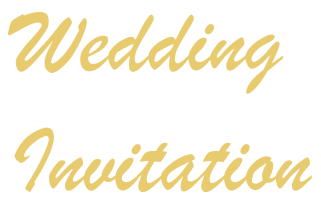
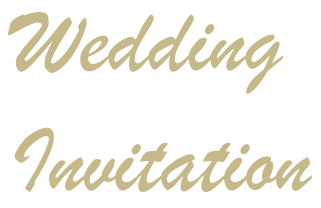
fix colors

Changed region(s): [[0.0, 0.0577, 0.9034, 0.4615], [0.0312, 0.6058, 0.9657, 0.9231]]

diff --git a/css/styles.min.css b/css/styles.min.css
@@ -1,1 +1,1 @@
-@import"https://fonts.googleapis.com/css?family=Open+Sans:300italic,400italic,600italic,700italic,800italic,400,300,600,700,800";@import"https://fonts.googleapis.com/css?family=Merriweather:400,300,400italic,300italic,700,700italic";@import"https://fonts.googleapis.com/css?family=Nunito:400,300,700";p{font-size:15px;line-height:29px;color:rgba(28,54,83,.6);padding-bottom:20px}h1{font-size:60px}h2{font-size:40px;font-weight:300;color:#3d4351}h3{color:#3d4351;font-size:18px;font-weight:700;text-transform:uppercase;letter-spacing:3px;line-height:29px}h4{font-size:18px}h5{font-size:15px;color:#3d4351;text-transform:uppercase;font-weight:500}.btn{font-size:13px;border:solid 2px;-moz-border-radius:40px;-webkit-border-radius:40px;border-radius:40px;display:inline-block;text-transform:uppercase}.btn:hover,.btn:focus{color:#fff;border-color:#e8ca6f;background-color:#e8ca6f}.btn-white{font-size:13px;border:solid 2px;-moz-border-radius:40px;-webkit-border-radius:40px;border-radius:40px;display:inline-block;border-color:#fff}.btn-white:hover,.btn-white:focus{color:#e8ca6f;border-color:#e8ca6f}.btn-fill{color:#fff;border:solid 2px #e8ca6f;-moz-border-radius:40px;-webkit-border-radius:40px;border-radius:40px;display:inline-block;text-transform:uppercase;background-color:#e8ca6f}.btn-fill:hover,.btn-fill:focus{color:#fff;background-color:#d3b56a;border-color:#d3b56a}.btn-small{padding:8px 30px}.btn-large{padding:15px 40px}.btn-margin-right{margin-right:20px}section.intro,section.features-extra,section.rsvp{background:#fff}section.features,section.events,section.blog{background:#f8f9fd}.group:after{content:"";display:table;clear:both}.no-padding{padding:0}.no-margin{margin:0}a{color:#e8ca6f;-webkit-transition-timing-function:ease;transition-timing-function:ease;-webkit-transition-duration:200ms;transition-duration:200ms;-webkit-transition-property:color,border-color,background-color;transition-property:color,border-color,background-color}a:hover,a:focus{color:#d3b56a;text-decoration:none}body{font-family:"Open Sans",sans-serif;font-weight:300;color:rgba(28,54,83,.6);-webkit-text-size-adjust:100%}*:focus{outline:none !important}ul,ol{margin:0;padding:0}ul li{list-style:none}section .header{padding-bottom:30px}.section-padding{padding:40px 0}.section-border{border-bottom:1px solid #e6e9ea}.tooltip{position:absolute;z-index:1070;display:block;font-family:"Helvetica Neue",Helvetica,Arial,sans-serif;font-size:12px;font-weight:normal;line-height:1.4;visibility:visible;filter:alpha(opacity=0);opacity:0}.tooltip.in{filter:alpha(opacity=90);opacity:.9}.tooltip.top{padding:5px 0;margin-top:-3px}.tooltip.right{padding:0 5px;margin-left:3px}.tooltip.bottom{padding:5px 0;margin-top:3px}.tooltip.left{padding:0 5px;margin-left:-3px}.tooltip-inner{max-width:200px;padding:3px 8px;color:#fff;text-align:center;text-decoration:none;text-transform:capitalize;background-color:#000;border-radius:4px}.pulse2{animation-name:pulse2;animation-duration:1s;animation-iteration-count:infinite;animation-timing-function:linear}@keyframes pulse2{0%{transform:scale(1.1)}50%{transform:scale(0.8)}100%{transform:scale(1)}}.floating-arrow{animation-name:floating-arrow;animation-duration:2s;animation-iteration-count:infinite;animation-timing-function:ease-in-out}@keyframes floating-arrow{from{transform:translate(-50%, 0)}65%{transform:translate(-50%, 15px)}to{transform:translate(-50%, 0)}}.floating-logo{animation-name:floating-logo;animation-duration:2s;animation-iteration-count:infinite;animation-timing-function:ease-in-out}@keyframes floating-logo{from{transform:translate(-50%, 0)}50%{transform:translate(-50%, 10px)}to{transform:translate(-50%, 0)}}.wp1,.wp2,.wp3,.wp4,.wp5,.wp6,.wp7,.wp8,.wp9{visibility:hidden}.wp8,.wp9{-webkit-animation-delay:.3s;animation-delay:.3s}.bounceInLeft,.bounceInRight,.fadeInUp,.fadeInUpDelay,.fadeInDown,.fadeInUpD,.fadeInLeft,.fadeInRight,.bounceInDown{visibility:visible}.header-nav.open{visibility:visible;opacity:.9;-webkit-transition:opacity .5s;transition:opacity .5s}.nav-toggle{position:absolute;top:0;right:15px;z-index:999999;padding:10px 35px 16px 0;cursor:pointer}.nav-toggle:focus{outline:none}.nav-toggle span,.nav-toggle span:before,.nav-toggle span:after{content:"";position:absolute;display:block;width:35px;height:3px;-moz-border-radius:1px;-webkit-border-radius:1px;border-radius:1px;background:#fff;cursor:pointer}.nav-toggle span:before{top:-10px}.nav-toggle span:after{bottom:-10px}.nav-toggle span,.nav-toggle span:before,.nav-toggle span:after{-moz-transition:all 300ms ease-in-out;-o-transition:all 300ms ease-in-out;-webkit-transition:all 300ms ease-in-out;transition:all 300ms ease-in-out}.nav-toggle.active span{background-color:rgba(0,0,0,0)}.nav-toggle.active span:before,.nav-toggle.active span:after{top:0}.nav-toggle.active span:before{-moz-transform:rotate(45deg);-ms-transform:rotate(45deg);-o-transform:rotate(45deg);-webkit-transform:rotate(45deg);transform:rotate(45deg)}.nav-toggle.active span:after{top:10px;-moz-transform:translatey(-10px) rotate(-45deg);-ms-transform:translatey(-10px) rotate(-45deg);-o-transform:translatey(-10px) rotate(-45deg);-webkit-transform:translatey(-10px) rotate(-45deg);transform:translatey(-10px) rotate(-45deg)}.navicon{position:absolute;height:26px;right:10px;top:48px;visibility:hidden;transition:all 300ms ease-in-out}.hero{min-height:900px;background:url("../img/hero-min.jpg") center center;-webkit-background-size:cover;-moz-background-size:cover;-o-background-size:cover;background-size:cover;position:relative}.hero .hero-content{padding-top:100px}.hero-img{padding-top:300px}.navigation{transition:all 300ms ease-in-out;position:fixed;width:100%;z-index:999}.fixed{position:fixed;background-color:rgba(55,36,40,.88);z-index:999;width:100%}header{padding:50px 0;border-bottom:solid 1px rgba(255,255,255,.2);position:relative;width:1170px;margin:0 auto;transition:padding 300ms ease-in-out}header a{color:#fff;text-transform:uppercase;font-size:13px}header a.login{margin-right:20px}header .logo{display:inline-block}header .logo img{height:19px}header ul.primary-nav{margin:0 0 0 75px;padding:0}header ul.primary-nav li{display:inline}header ul.primary-nav li a{color:#fff;padding-right:25px}header ul.primary-nav li a:hover{color:#e8ca6f}header ul.primary-nav li:last-child a{padding-right:0px}header ul.member-actions li{display:inline}header ul.member-actions li a{color:#fff}header ul.member-actions li a:hover{color:#e8ca6f}header .header-nav{display:inline-block}header .member-actions{position:absolute;right:0;top:41px;transition:all 300ms ease-in-out}.down-arrow{color:#fff;font-size:30px;position:absolute;bottom:30px;left:50%;transform:translateX(-50%)}.share-bar{margin-top:20px}.intro span.icon{font-size:40px;color:#e8ca6f;font-weight:bold}.intro-icon{display:inline-block;vertical-align:top;padding:6px 0 0 0;margin-right:20px;width:40px}.intro-content{display:inline-block;width:80%}#intro{padding-top:40px}#intro img{width:100%;height:auto}#intro p{text-align:center}.features{position:relative}.features p{margin-bottom:0;padding-bottom:0}.features h3{margin:0 0 20px 0}.features span.icon{font-size:35px;color:#e8ca6f;font-weight:bold}.features .feature-icon{display:inline-block;vertical-align:top;padding:6px 0 0 0;margin-right:20px;width:35px}.features .feature-content{display:inline-block;width:75%}.features .intro-icon{display:inline-block;vertical-align:top;padding:6px 0 0 0;margin-right:20px}.features .intro-content{display:inline-block;width:80%}.features ul.features-stack{margin-top:50px}.features ul.features-stack li{margin-top:20px;padding-bottom:20px;border-bottom:solid 1px #e6e9ea}.features ul.features-stack li:last-child{padding-bottom:0px;border-bottom:none}.features .ipad-wrap{width:706px;height:1002px;background:url("../img/ipad-device.png") no-repeat center center;z-index:1}.features .iphone-wrap{width:304px;height:620px;background:url("../img/iphone6.png") no-repeat center center;position:absolute;left:530px;bottom:129px;z-index:2}.features .device-showcase{position:absolute;bottom:-365px;right:61%}.features .responsive-feature-img,.features-extra .responsive-feature-img{display:none}.devices{position:relative}.features-extra{position:relative;z-index:3}.features-extra .btn{margin-top:20px}.features-extra .macbook-wrap{position:absolute;width:916px;height:540px;background:url("../img/macbook-pro.png") no-repeat center center;top:114px;z-index:4;left:50%}.events .leftcol{padding-right:100px;border-right:solid 1px #e6e9ea}.events .rightcol{padding-left:100px}.events .time{font-size:13px;font-style:italic;text-transform:lowercase;color:rgba(28,54,83,.6)}.blog{padding-bottom:120px}.blog img{width:100%;height:auto;-moz-transition:all 300ms ease-in-out;-o-transition:all 300ms ease-in-out;-webkit-transition:all 300ms ease-in-out;transition:all 300ms ease-in-out}.blog h2{font-size:11px;color:#acb1b4;font-weight:500;text-transform:uppercase;margin-top:35px}.blog .btn{margin-top:20px}.blog .blog-img-wrap{position:relative;overflow:hidden}.blog .blog-img-wrap .overlay{position:absolute;width:100%;height:100%;background-color:rgba(255,255,255,.5);-moz-transition:all 300ms ease-in-out;-o-transition:all 300ms ease-in-out;-webkit-transition:all 300ms ease-in-out;transition:all 300ms ease-in-out;-ms-filter:"progid:DXImageTransform.Microsoft.Alpha(Opacity=0)";filter:alpha(opacity=0);opacity:0}.blog .blog-img-wrap i{color:#fff;font-size:20px;position:absolute;width:20px;height:20px;top:25px;right:35px}.blog .blog-img-wrap:hover img,.blog .blog-img-wrap:focus img{-moz-transform:scale(1.1);-ms-transform:scale(1.1);-o-transform:scale(1.1);-webkit-transform:scale(1.1);transform:scale(1.1)}.blog .blog-img-wrap:hover .overlay,.blog .blog-img-wrap:focus .overlay{-ms-filter:"progid:DXImageTransform.Microsoft.Alpha(Opacity=1)";filter:alpha(opacity=1);opacity:1;z-index:9}.blog figcaption i{margin-left:5px;font-size:15px}.blog figcaption a.blog-post-title{color:rgba(28,54,83,.6)}.blog figcaption a.blog-post-title:hover,.blog figcaption a.blog-post-title:focus{color:#3d4351}#instagram img{width:100%}#eng-pics img{width:100%;height:auto;-moz-transition:all 300ms ease-in-out;-o-transition:all 300ms ease-in-out;-webkit-transition:all 300ms ease-in-out;transition:all 300ms ease-in-out}#eng-pics .img-wrap{position:relative;overflow:hidden;border-radius:4px}#eng-pics .img-wrap .overlay{position:absolute;width:100%;height:100%;background-color:rgba(255,255,255,.5);-moz-transition:all 300ms ease-in-out;-o-transition:all 300ms ease-in-out;-webkit-transition:all 300ms ease-in-out;transition:all 300ms ease-in-out;-ms-filter:"progid:DXImageTransform.Microsoft.Alpha(Opacity=0)";filter:alpha(opacity=0);opacity:0}#eng-pics .img-wrap i{color:#fff;font-size:15px;position:absolute;width:15px;height:15px;top:6px;right:6px}#eng-pics .img-wrap:hover img,#eng-pics .img-wrap:focus img{-moz-transform:scale(1.1);-ms-transform:scale(1.1);-o-transform:scale(1.1);-webkit-transform:scale(1.1);transform:scale(1.1)}#eng-pics .img-wrap:hover .overlay,#eng-pics .img-wrap:focus .overlay{-ms-filter:"progid:DXImageTransform.Microsoft.Alpha(Opacity=1)";filter:alpha(opacity=1);opacity:1;z-index:9}#eng-pics .diamond{width:230px;height:230px;position:absolute;bottom:-145px;left:50%;transform:translateX(-50%);z-index:500}#eng-pics .ring{width:75px;height:75px;border-radius:75px;border:10px solid #d0d3d4;position:absolute;left:34%;top:75%;z-index:-1}#video-bg{height:300px}#video-content{width:100%;height:100%;padding-top:100px;position:relative;background:rgba(17,17,17,.5);text-align:center}#video-content h5{color:#fff;font-size:30px;font-weight:300;letter-spacing:10px}#video-content p{color:#fff}.rsvp{padding-bottom:140px}.rsvp .rsvp-form .rsvp-btn{padding:15px 0;border-radius:3px;width:100%;font-size:13px}.rsvp .rsvp-form .form-input-group{width:100%;height:55px;margin:0 auto 10px;-moz-border-radius:5px;-webkit-border-radius:5px;border-radius:5px;border:solid 1px #e6e9ea;text-align:left;position:relative}.rsvp .rsvp-form .form-input-group i{color:#e8ca6f;font-size:14px}.rsvp .rsvp-form .form-input-group i:after{content:"";height:30px;width:1px;border-right:solid 1px #e6e9ea;position:absolute;top:50%;left:30px;transform:translateY(-50%)}.rsvp .rsvp-form .form-input-group i.fa-user,.rsvp .rsvp-form .form-input-group i.fa-users,.rsvp .rsvp-form .form-input-group i.fa-map-pin,.rsvp .rsvp-form .form-input-group .fa-shield{font-size:14px;position:absolute;top:50%;transform:translateY(-50%);margin-left:20px}.rsvp .rsvp-form .form-input-group input,.rsvp .rsvp-form .form-input-group select{color:rgba(28,54,83,.6);background-color:#fff;padding-left:68px;width:100%;height:100%;-moz-border-radius:6px;-webkit-border-radius:6px;border-radius:6px;border:none}.rsvp .rsvp-form .form-input-group input::-webkit-input-placeholder,.rsvp .rsvp-form .form-input-group select::-webkit-input-placeholder{color:#bcc1c3}.rsvp .rsvp-form .form-input-group input:-moz-placeholder,.rsvp .rsvp-form .form-input-group select:-moz-placeholder{color:#bcc1c3}.rsvp .rsvp-form .form-input-group input::-moz-placeholder,.rsvp .rsvp-form .form-input-group select::-moz-placeholder{color:#bcc1c3}.rsvp .rsvp-form .form-input-group input:-ms-input-placeholder,.rsvp .rsvp-form .form-input-group select:-ms-input-placeholder{color:#bcc1c3}.radiobutton{display:none}label{width:45%;background-color:#fff;padding:10px 20px}.radiobutton:checked+label{color:#fff;background-color:#e8ca6f}footer .content{border-top:1px solid #e6e9ea;padding-bottom:20px}footer .to-top-wrapper{font-size:30px;display:block;cursor:pointer;margin:-25px auto 50px;border-radius:50%;width:50px;height:50px;border:1px solid #e6e9ea;background:#fff}footer .to-top-wrapper .to-top{display:block;-webkit-transition:all .3s ease-in-out;-moz-transition:all .3s ease-in-out;-ms-transition:all .3s ease-in-out;-o-transition:all .3s ease-in-out;transition:all .3s ease-in-out}footer .to-top-wrapper .to-top:hover{margin-top:-5px}footer span.fa-heart{color:#ff415c;font-size:18px;margin:0 2px}body.modal-open{padding-right:0 !important}.modal-body{padding:25px}
+@import"https://fonts.googleapis.com/css?family=Open+Sans:300italic,400italic,600italic,700italic,800italic,400,300,600,700,800";@import"https://fonts.googleapis.com/css?family=Merriweather:400,300,400italic,300italic,700,700italic";@import"https://fonts.googleapis.com/css?family=Nunito:400,300,700";p{font-size:15px;line-height:29px;color:rgba(28,54,83,.6);padding-bottom:20px}h1{font-size:60px}h2{font-size:40px;font-weight:300;color:#3d4351}h3{color:#3d4351;font-size:18px;font-weight:700;text-transform:uppercase;letter-spacing:3px;line-height:29px}h4{font-size:18px}h5{font-size:15px;color:#3d4351;text-transform:uppercase;font-weight:500}.btn{font-size:13px;border:solid 2px;-moz-border-radius:40px;-webkit-border-radius:40px;border-radius:40px;display:inline-block;text-transform:uppercase}.btn:hover,.btn:focus{color:#fff;border-color:#c5b98a;background-color:#c5b98a}.btn-white{font-size:13px;border:solid 2px;-moz-border-radius:40px;-webkit-border-radius:40px;border-radius:40px;display:inline-block;border-color:#fff}.btn-white:hover,.btn-white:focus{color:#c5b98a;border-color:#c5b98a}.btn-fill{color:#fff;border:solid 2px #c5b98a;-moz-border-radius:40px;-webkit-border-radius:40px;border-radius:40px;display:inline-block;text-transform:uppercase;background-color:#c5b98a}.btn-fill:hover,.btn-fill:focus{color:#fff;background-color:#d3b56a;border-color:#d3b56a}.btn-small{padding:8px 30px}.btn-large{padding:15px 40px}.btn-margin-right{margin-right:20px}section.intro,section.features-extra,section.rsvp{background:#fff}section.features,section.events,section.blog{background:#f8f9fd}.group:after{content:"";display:table;clear:both}.no-padding{padding:0}.no-margin{margin:0}a{color:#c5b98a;-webkit-transition-timing-function:ease;transition-timing-function:ease;-webkit-transition-duration:200ms;transition-duration:200ms;-webkit-transition-property:color,border-color,background-color;transition-property:color,border-color,background-color}a:hover,a:focus{color:#d3b56a;text-decoration:none}body{font-family:"Open Sans",sans-serif;font-weight:300;color:rgba(28,54,83,.6);-webkit-text-size-adjust:100%}*:focus{outline:none !important}ul,ol{margin:0;padding:0}ul li{list-style:none}section .header{padding-bottom:30px}.section-padding{padding:40px 0}.section-border{border-bottom:1px solid #e6e9ea}.tooltip{position:absolute;z-index:1070;display:block;font-family:"Helvetica Neue",Helvetica,Arial,sans-serif;font-size:12px;font-weight:normal;line-height:1.4;visibility:visible;filter:alpha(opacity=0);opacity:0}.tooltip.in{filter:alpha(opacity=90);opacity:.9}.tooltip.top{padding:5px 0;margin-top:-3px}.tooltip.right{padding:0 5px;margin-left:3px}.tooltip.bottom{padding:5px 0;margin-top:3px}.tooltip.left{padding:0 5px;margin-left:-3px}.tooltip-inner{max-width:200px;padding:3px 8px;color:#fff;text-align:center;text-decoration:none;text-transform:capitalize;background-color:#000;border-radius:4px}.pulse2{animation-name:pulse2;animation-duration:1s;animation-iteration-count:infinite;animation-timing-function:linear}@keyframes pulse2{0%{transform:scale(1.1)}50%{transform:scale(0.8)}100%{transform:scale(1)}}.floating-arrow{animation-name:floating-arrow;animation-duration:2s;animation-iteration-count:infinite;animation-timing-function:ease-in-out}@keyframes floating-arrow{from{transform:translate(-50%, 0)}65%{transform:translate(-50%, 15px)}to{transform:translate(-50%, 0)}}.floating-logo{animation-name:floating-logo;animation-duration:2s;animation-iteration-count:infinite;animation-timing-function:ease-in-out}@keyframes floating-logo{from{transform:translate(-50%, 0)}50%{transform:translate(-50%, 10px)}to{transform:translate(-50%, 0)}}.wp1,.wp2,.wp3,.wp4,.wp5,.wp6,.wp7,.wp8,.wp9{visibility:hidden}.wp8,.wp9{-webkit-animation-delay:.3s;animation-delay:.3s}.bounceInLeft,.bounceInRight,.fadeInUp,.fadeInUpDelay,.fadeInDown,.fadeInUpD,.fadeInLeft,.fadeInRight,.bounceInDown{visibility:visible}.header-nav.open{visibility:visible;opacity:.9;-webkit-transition:opacity .5s;transition:opacity .5s}.nav-toggle{position:absolute;top:0;right:15px;z-index:999999;padding:10px 35px 16px 0;cursor:pointer}.nav-toggle:focus{outline:none}.nav-toggle span,.nav-toggle span:before,.nav-toggle span:after{content:"";position:absolute;display:block;width:35px;height:3px;-moz-border-radius:1px;-webkit-border-radius:1px;border-radius:1px;background:#fff;cursor:pointer}.nav-toggle span:before{top:-10px}.nav-toggle span:after{bottom:-10px}.nav-toggle span,.nav-toggle span:before,.nav-toggle span:after{-moz-transition:all 300ms ease-in-out;-o-transition:all 300ms ease-in-out;-webkit-transition:all 300ms ease-in-out;transition:all 300ms ease-in-out}.nav-toggle.active span{background-color:rgba(0,0,0,0)}.nav-toggle.active span:before,.nav-toggle.active span:after{top:0}.nav-toggle.active span:before{-moz-transform:rotate(45deg);-ms-transform:rotate(45deg);-o-transform:rotate(45deg);-webkit-transform:rotate(45deg);transform:rotate(45deg)}.nav-toggle.active span:after{top:10px;-moz-transform:translatey(-10px) rotate(-45deg);-ms-transform:translatey(-10px) rotate(-45deg);-o-transform:translatey(-10px) rotate(-45deg);-webkit-transform:translatey(-10px) rotate(-45deg);transform:translatey(-10px) rotate(-45deg)}.navicon{position:absolute;height:26px;right:10px;top:48px;visibility:hidden;transition:all 300ms ease-in-out}.hero{min-height:900px;background:url("../img/hero-min.jpg") center center;-webkit-background-size:cover;-moz-background-size:cover;-o-background-size:cover;background-size:cover;position:relative}.hero .hero-content{padding-top:100px}.hero-img{padding-top:300px}.navigation{transition:all 300ms ease-in-out;position:fixed;width:100%;z-index:999}.fixed{position:fixed;background-color:rgba(55,36,40,.88);z-index:999;width:100%}header{color:#c5b98a;padding:50px 0;border-bottom:solid 1px rgba(255,255,255,.2);position:relative;width:1170px;margin:0 auto;transition:padding 300ms ease-in-out}header a{color:#fff;text-transform:uppercase;font-size:13px}header a.login{margin-right:20px}header .logo{display:inline-block}header .logo img{height:19px}header ul.primary-nav{margin:0 0 0 75px;padding:0}header ul.primary-nav li{display:inline}header ul.primary-nav li a{color:#fff;padding-right:25px}header ul.primary-nav li a:hover{color:#c5b98a}header ul.primary-nav li:last-child a{padding-right:0px}header ul.member-actions li{display:inline}header ul.member-actions li a{color:#fff}header ul.member-actions li a:hover{color:#c5b98a}header .header-nav{display:inline-block}header .member-actions{position:absolute;right:0;top:41px;transition:all 300ms ease-in-out}.down-arrow{color:#fff;font-size:30px;position:absolute;bottom:30px;left:50%;transform:translateX(-50%)}.share-bar{margin-top:20px}.intro span.icon{font-size:40px;color:#c5b98a;font-weight:bold}.intro-icon{display:inline-block;vertical-align:top;padding:6px 0 0 0;margin-right:20px;width:40px}.intro-content{display:inline-block;width:80%}#intro{padding-top:40px}#intro img{width:100%;height:auto}#intro p{text-align:center}.features{position:relative}.features p{margin-bottom:0;padding-bottom:0}.features h3{margin:0 0 20px 0}.features span.icon{font-size:35px;color:#c5b98a;font-weight:bold}.features .feature-icon{display:inline-block;vertical-align:top;padding:6px 0 0 0;margin-right:20px;width:35px}.features .feature-content{display:inline-block;width:75%}.features .intro-icon{display:inline-block;vertical-align:top;padding:6px 0 0 0;margin-right:20px}.features .intro-content{display:inline-block;width:80%}.features ul.features-stack{margin-top:50px}.features ul.features-stack li{margin-top:20px;padding-bottom:20px;border-bottom:solid 1px #e6e9ea}.features ul.features-stack li:last-child{padding-bottom:0px;border-bottom:none}.features .ipad-wrap{width:706px;height:1002px;background:url("../img/ipad-device.png") no-repeat center center;z-index:1}.features .iphone-wrap{width:304px;height:620px;background:url("../img/iphone6.png") no-repeat center center;position:absolute;left:530px;bottom:129px;z-index:2}.features .device-showcase{position:absolute;bottom:-365px;right:61%}.features .responsive-feature-img,.features-extra .responsive-feature-img{display:none}.devices{position:relative}.features-extra{position:relative;z-index:3}.features-extra .btn{margin-top:20px}.features-extra .macbook-wrap{position:absolute;width:916px;height:540px;background:url("../img/macbook-pro.png") no-repeat center center;top:114px;z-index:4;left:50%}.events .leftcol{padding-right:100px;border-right:solid 1px #e6e9ea}.events .rightcol{padding-left:100px}.events .time{font-size:13px;font-style:italic;text-transform:lowercase;color:rgba(28,54,83,.6)}.blog{padding-bottom:120px}.blog img{width:100%;height:auto;-moz-transition:all 300ms ease-in-out;-o-transition:all 300ms ease-in-out;-webkit-transition:all 300ms ease-in-out;transition:all 300ms ease-in-out}.blog h2{font-size:11px;color:#acb1b4;font-weight:500;text-transform:uppercase;margin-top:35px}.blog .btn{margin-top:20px}.blog .blog-img-wrap{position:relative;overflow:hidden}.blog .blog-img-wrap .overlay{position:absolute;width:100%;height:100%;background-color:rgba(255,255,255,.5);-moz-transition:all 300ms ease-in-out;-o-transition:all 300ms ease-in-out;-webkit-transition:all 300ms ease-in-out;transition:all 300ms ease-in-out;-ms-filter:"progid:DXImageTransform.Microsoft.Alpha(Opacity=0)";filter:alpha(opacity=0);opacity:0}.blog .blog-img-wrap i{color:#fff;font-size:20px;position:absolute;width:20px;height:20px;top:25px;right:35px}.blog .blog-img-wrap:hover img,.blog .blog-img-wrap:focus img{-moz-transform:scale(1.1);-ms-transform:scale(1.1);-o-transform:scale(1.1);-webkit-transform:scale(1.1);transform:scale(1.1)}.blog .blog-img-wrap:hover .overlay,.blog .blog-img-wrap:focus .overlay{-ms-filter:"progid:DXImageTransform.Microsoft.Alpha(Opacity=1)";filter:alpha(opacity=1);opacity:1;z-index:9}.blog figcaption i{margin-left:5px;font-size:15px}.blog figcaption a.blog-post-title{color:rgba(28,54,83,.6)}.blog figcaption a.blog-post-title:hover,.blog figcaption a.blog-post-title:focus{color:#3d4351}#instagram img{width:100%}#eng-pics img{width:100%;height:auto;-moz-transition:all 300ms ease-in-out;-o-transition:all 300ms ease-in-out;-webkit-transition:all 300ms ease-in-out;transition:all 300ms ease-in-out}#eng-pics .img-wrap{position:relative;overflow:hidden;border-radius:4px}#eng-pics .img-wrap .overlay{position:absolute;width:100%;height:100%;background-color:rgba(255,255,255,.5);-moz-transition:all 300ms ease-in-out;-o-transition:all 300ms ease-in-out;-webkit-transition:all 300ms ease-in-out;transition:all 300ms ease-in-out;-ms-filter:"progid:DXImageTransform.Microsoft.Alpha(Opacity=0)";filter:alpha(opacity=0);opacity:0}#eng-pics .img-wrap i{color:#fff;font-size:15px;position:absolute;width:15px;height:15px;top:6px;right:6px}#eng-pics .img-wrap:hover img,#eng-pics .img-wrap:focus img{-moz-transform:scale(1.1);-ms-transform:scale(1.1);-o-transform:scale(1.1);-webkit-transform:scale(1.1);transform:scale(1.1)}#eng-pics .img-wrap:hover .overlay,#eng-pics .img-wrap:focus .overlay{-ms-filter:"progid:DXImageTransform.Microsoft.Alpha(Opacity=1)";filter:alpha(opacity=1);opacity:1;z-index:9}#eng-pics .diamond{width:230px;height:230px;position:absolute;bottom:-145px;left:50%;transform:translateX(-50%);z-index:500}#eng-pics .ring{width:75px;height:75px;border-radius:75px;border:10px solid #d0d3d4;position:absolute;left:34%;top:75%;z-index:-1}#video-bg{height:300px}#video-content{width:100%;height:100%;padding-top:100px;position:relative;background:rgba(17,17,17,.5);text-align:center}#video-content h5{color:#fff;font-size:30px;font-weight:300;letter-spacing:10px}#video-content p{color:#fff}.rsvp{padding-bottom:140px}.rsvp .rsvp-form .rsvp-btn{padding:15px 0;border-radius:3px;width:100%;font-size:13px}.rsvp .rsvp-form .form-input-group{width:100%;height:55px;margin:0 auto 10px;-moz-border-radius:5px;-webkit-border-radius:5px;border-radius:5px;border:solid 1px #e6e9ea;text-align:left;position:relative}.rsvp .rsvp-form .form-input-group i{color:#c5b98a;font-size:14px}.rsvp .rsvp-form .form-input-group i:after{content:"";height:30px;width:1px;border-right:solid 1px #e6e9ea;position:absolute;top:50%;left:30px;transform:translateY(-50%)}.rsvp .rsvp-form .form-input-group i.fa-user,.rsvp .rsvp-form .form-input-group i.fa-users,.rsvp .rsvp-form .form-input-group i.fa-map-pin,.rsvp .rsvp-form .form-input-group .fa-shield{font-size:14px;position:absolute;top:50%;transform:translateY(-50%);margin-left:20px}.rsvp .rsvp-form .form-input-group input,.rsvp .rsvp-form .form-input-group select{color:rgba(28,54,83,.6);background-color:#fff;padding-left:68px;width:100%;height:100%;-moz-border-radius:6px;-webkit-border-radius:6px;border-radius:6px;border:none}.rsvp .rsvp-form .form-input-group input::-webkit-input-placeholder,.rsvp .rsvp-form .form-input-group select::-webkit-input-placeholder{color:#bcc1c3}.rsvp .rsvp-form .form-input-group input:-moz-placeholder,.rsvp .rsvp-form .form-input-group select:-moz-placeholder{color:#bcc1c3}.rsvp .rsvp-form .form-input-group input::-moz-placeholder,.rsvp .rsvp-form .form-input-group select::-moz-placeholder{color:#bcc1c3}.rsvp .rsvp-form .form-input-group input:-ms-input-placeholder,.rsvp .rsvp-form .form-input-group select:-ms-input-placeholder{color:#bcc1c3}.radiobutton{display:none}label{width:45%;background-color:#fff;padding:10px 20px}.radiobutton:checked+label{color:#fff;background-color:#c5b98a}footer .content{border-top:1px solid #e6e9ea;padding-bottom:20px}footer .to-top-wrapper{font-size:30px;display:block;cursor:pointer;margin:-25px auto 50px;border-radius:50%;width:50px;height:50px;border:1px solid #e6e9ea;background:#fff}footer .to-top-wrapper .to-top{display:block;-webkit-transition:all .3s ease-in-out;-moz-transition:all .3s ease-in-out;-ms-transition:all .3s ease-in-out;-o-transition:all .3s ease-in-out;transition:all .3s ease-in-out}footer .to-top-wrapper .to-top:hover{margin-top:-5px}footer span.fa-heart{color:#ff415c;font-size:18px;margin:0 2px}body.modal-open{padding-right:0 !important}.modal-body{padding:25px}

diff --git a/sass/partials/_colors.scss b/sass/partials/_colors.scss
@@ -11,7 +11,7 @@ $txt-accent: #ACB1B4;
 $form-placeholder: #BCC1C3;
 // form placeholder text
 // Global colours
-$accent-color: #e8ca6f;
+$accent-color: #c5b98a;
 // global accent colour
 $accent-color-hover: #d3b56a;
 // global accent colour hover

diff --git a/sass/styles.scss b/sass/styles.scss
@@ -769,7 +769,7 @@ label {
 }
 .radiobutton:checked + label {
   color: white;
-  background-color: #E8CA6F;
+  background-color: #c5b98a;
 }
 
 /* ==========================================================================
